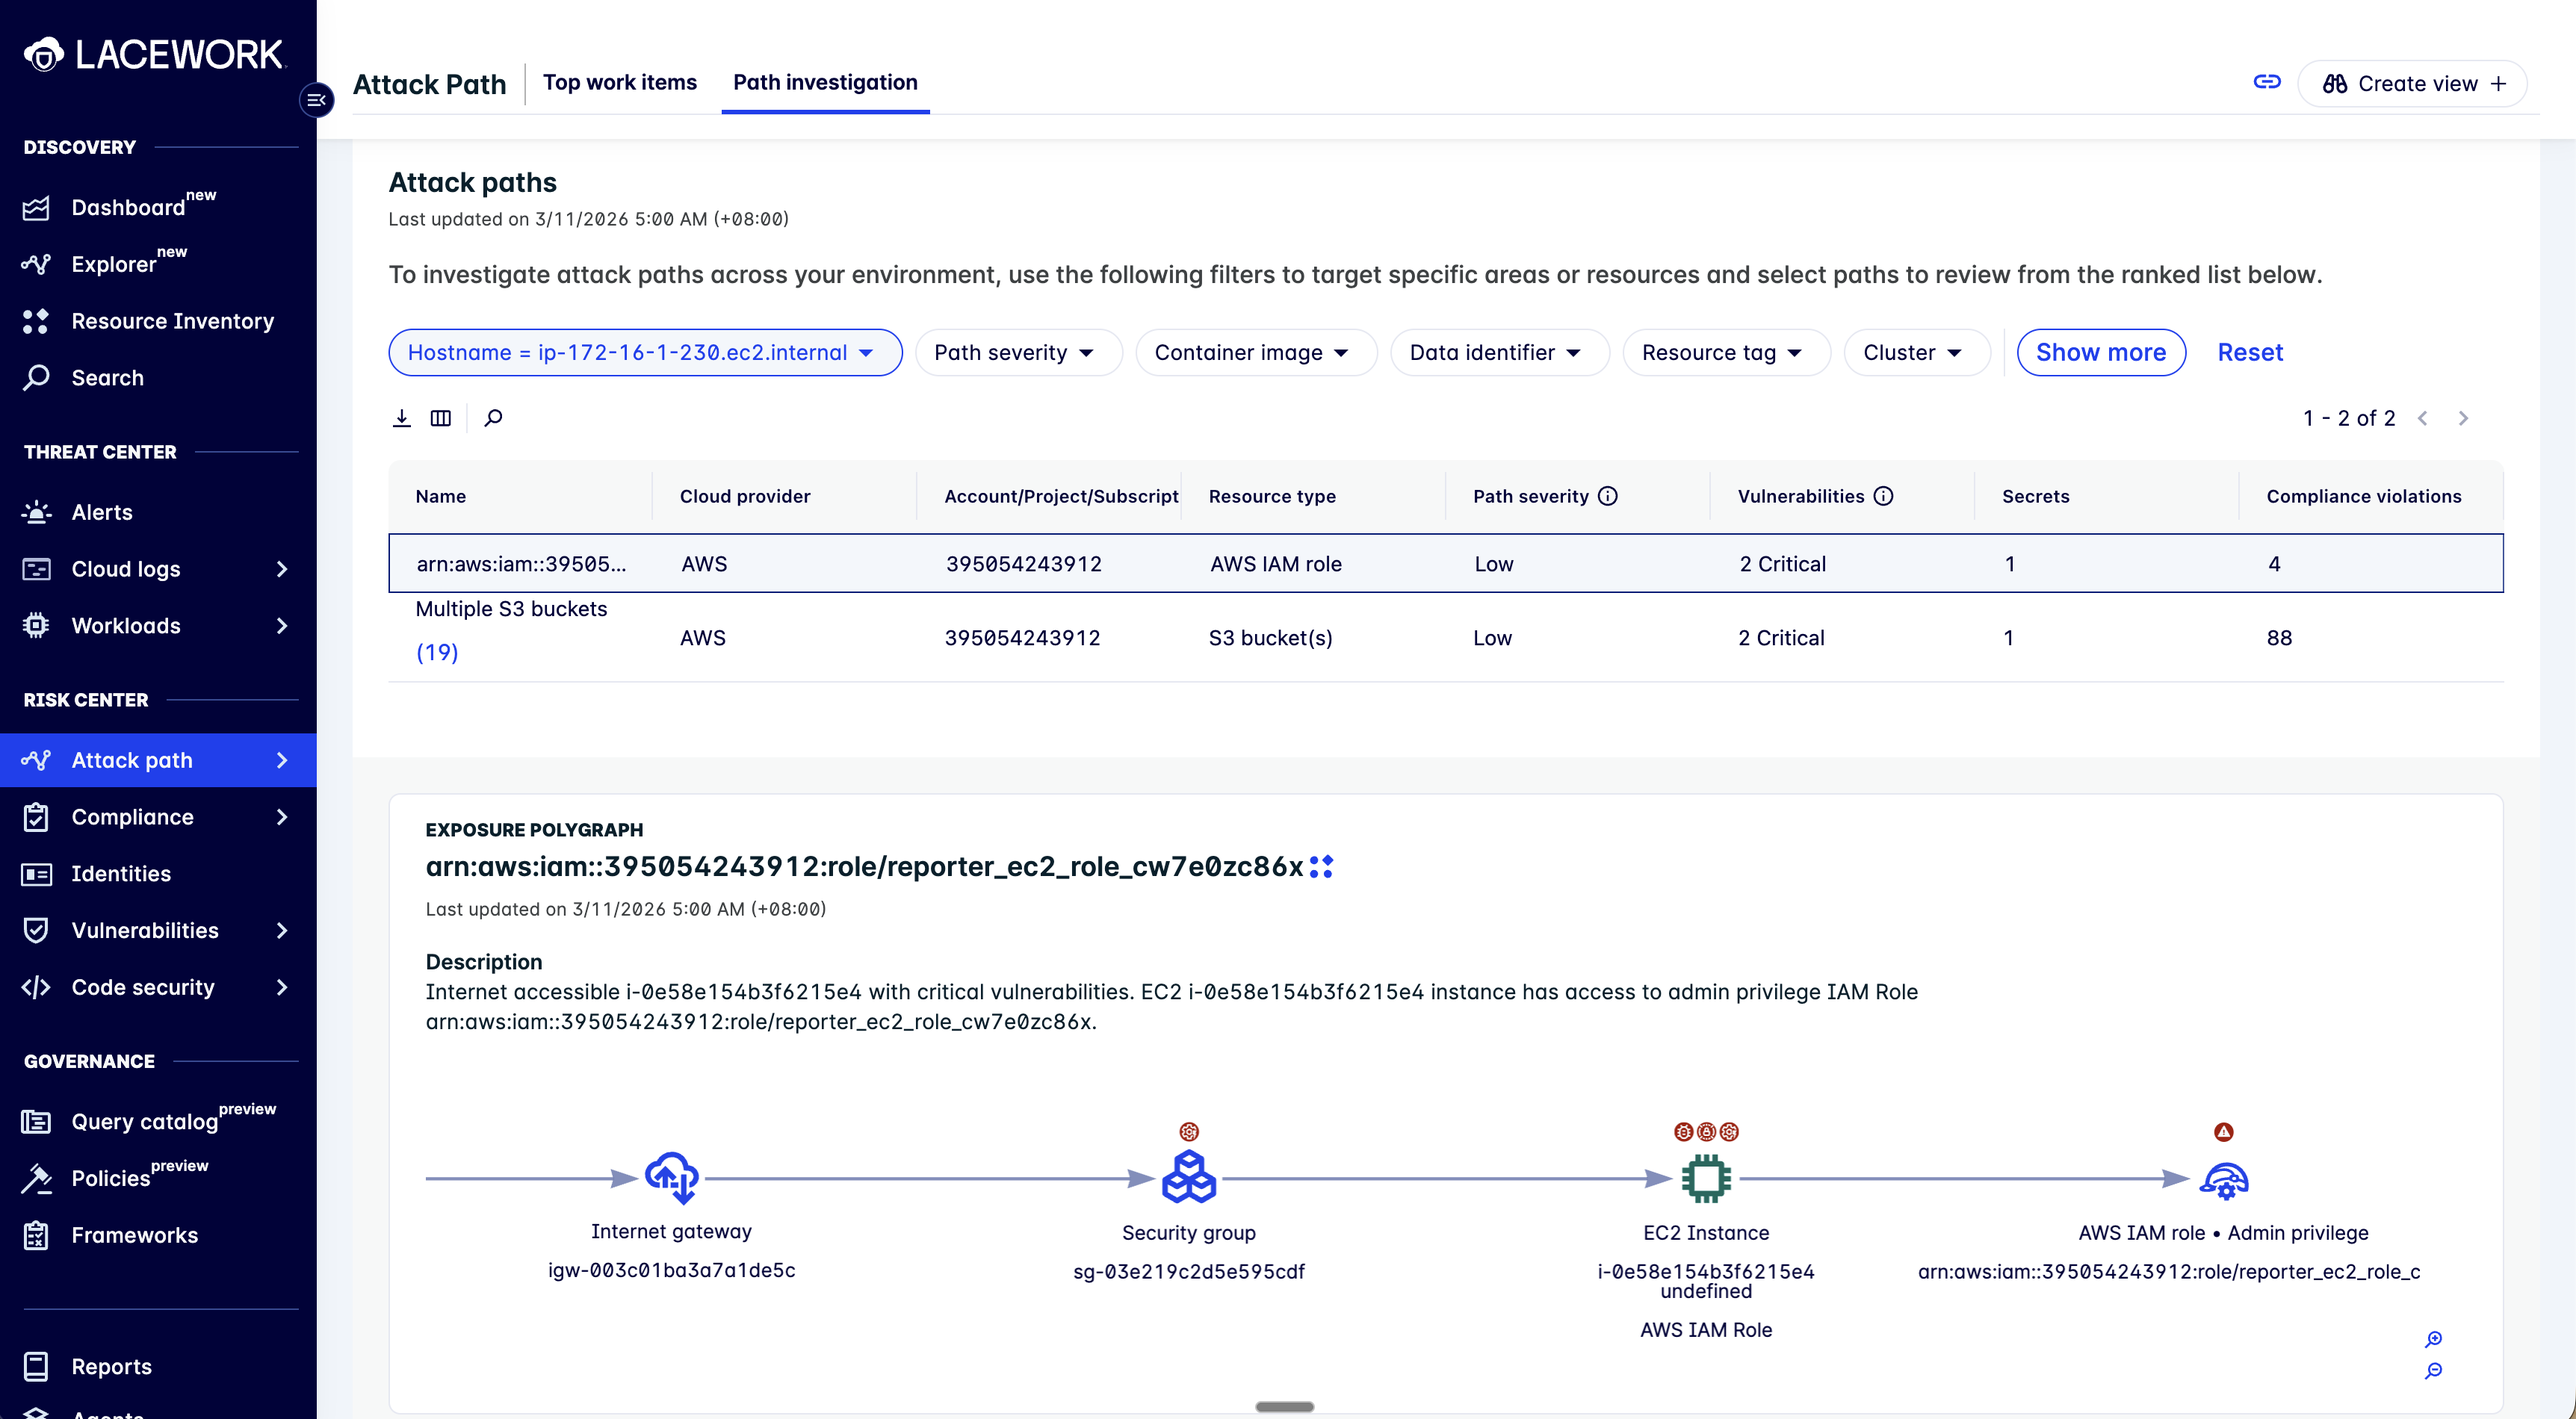
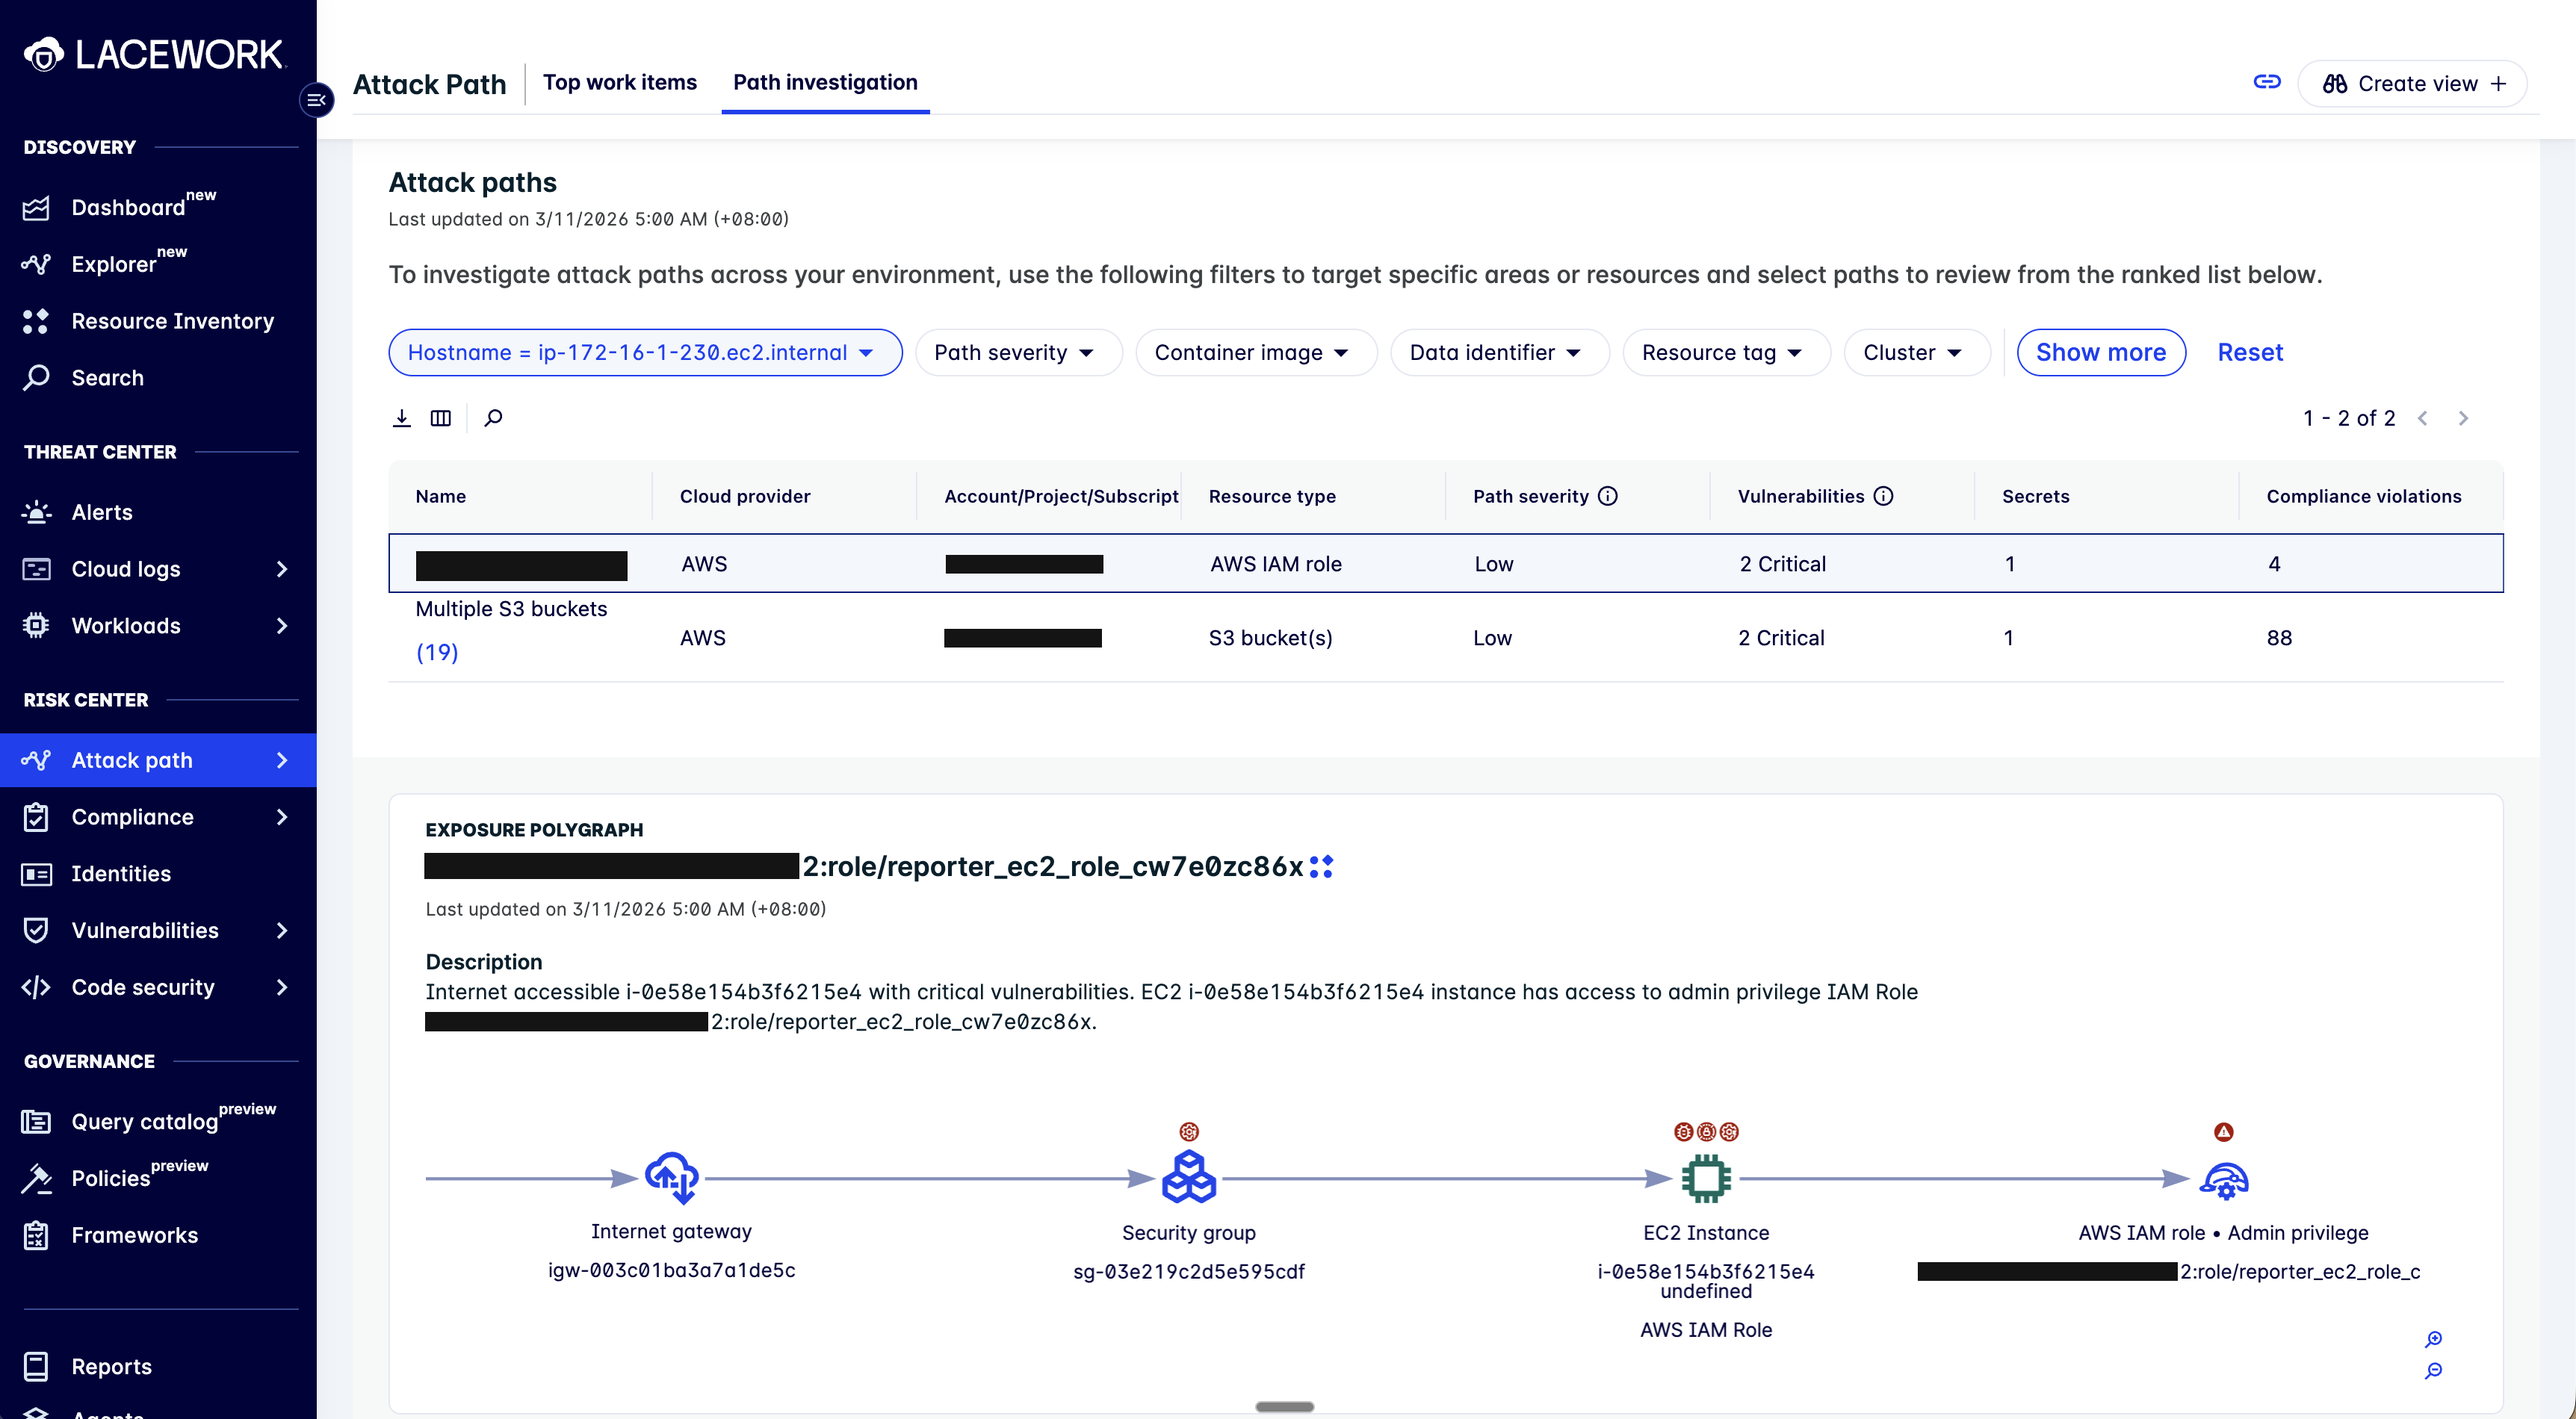
Redact account identifiers from screenshots and soften defect framing
Screenshots: OCR-located and blacked out AWS account IDs, ARNs, integration
GUIDs and external IDs across 17 images. Three accounts were exposed,
including one belonging to a third party via a shared-tenant deployment
record, and two inherited from the original repo.

Text: reframed product limitations as operational fact. Every actionable
instruction is unchanged; the judgement about the product and its docs is
not workshop content and belongs in internal notes.

diff --git a/lab-03/README.md b/lab-03/README.md
@@ -163,11 +163,10 @@ Wait for all selected integration types to complete. Allow 5 to 10 minutes.
 
 ![Live Terraform output during the deployment](images/forticnapp-deploy-progress.png)
 
-> **Rollback is per integration type, not global.** The administration guide states that a
-> failure rolls back the resources created for *all* integration types. That is not what
-> happens. In our test run Agentless succeeded and stayed deployed while Configuration
-> failed and rolled back its own 18 resources. You can end up partly onboarded, so always
-> read the per-integration status on the deployment record.
+> **Read the status per integration type.** Rollback applies to the integration type that
+> failed, not to the others. In our test run Agentless completed and stayed deployed while
+> Configuration rolled back its own 18 resources. So check each row on the deployment
+> record rather than assuming the run was all-or-nothing.
 
 Every run is recorded under **Settings** > **Integrations** > **Cloud accounts** >
 **Deployment History**, successes and failures alike. That is where you troubleshoot a
@@ -231,7 +230,7 @@ lacework-cloudtrail-7689faee   False   lacework-ct-bucket-7d009af2
 
 ## Troubleshooting
 
-These are the three failures we hit building this lab, on a real Fortinet AWS account.
+Three situations you may hit, all seen while building this lab.
 
 ### Discovery fails on an AWS Organization trail
 
@@ -240,15 +239,13 @@ TrailNotFoundException: Unknown trail: aws-controltower-BaselineCloudTrail
 for the user: <your account id>
 ```
 
-**Cause**: your account is a member of an AWS Organization that has an organization-wide
-CloudTrail, often created by Control Tower. The trail is visible to your account but owned
-by the management account, so the `GetTrail` call discovery makes returns a 400.
+**Cause**: the account is a member of an AWS Organization with an organization-wide
+CloudTrail, often created by Control Tower. A member account sees that trail as a shadow
+trail, and AWS requires the full trail ARN to look one up rather than the name.
 
-**Effect**: the whole wizard stops. It does not skip CloudTrail and carry on.
-
-**Workaround**: deselect **CloudTrail** and deploy the other integration types. To get
-CloudTrail coverage for an organization, run an **organization level** integration from the
-management account instead of an account level one from a member account.
+**What to do**: deselect **CloudTrail** and deploy the other integration types. For
+CloudTrail coverage across an organization, run an **organization level** integration from
+the management account.
 
 ![Discovery failure caused by an organization CloudTrail](images/forticnapp-discovery-controltower-error.png)
 
@@ -262,11 +259,10 @@ The provided aws account is already used in this Lacework Application.
 **Cause**: a Configuration integration already exists for this AWS account in this
 FortiCNAPP tenant.
 
-**Effect**: discovery passes, Terraform creates 18 resources, the registration API call
-fails, and Terraform destroys all 18 again. Nothing is left behind, but you only find out
-at the end.
+**What happens**: the run completes its Terraform stage, then rolls back cleanly. Nothing
+is left behind in AWS.
 
-**Workaround**: delete the existing integration first, then redeploy.
+**What to do**: delete the existing integration first, then use **Redeploy integrations**.
 
 ![Deployment record showing the duplicate integration failure](images/forticnapp-deployment-failed-duplicate.png)
 

diff --git a/lab-02/README.md b/lab-02/README.md
@@ -34,23 +34,22 @@ constraint.
 | AWS IAM Identity Center (SSO) | **Method A** | The access portal issues a role session, which can complete discovery. |
 | An IAM user with admin rights, which is the lab setup | **Method B** | Create a role and assume it. A role session can complete discovery. |
 
-> **Do not use plain `aws sts get-session-token`.** It looks like the obvious CloudShell
-> shortcut, and FortiCNAPP's own in-product guide offers it, but the credentials it returns
-> **cannot complete discovery**.
+> **Use a role session, not plain `aws sts get-session-token`.**
 >
 > Discovery calls IAM APIs. AWS blocks IAM API calls from `GetSessionToken` credentials
-> unless MFA information was included in the request. The wizard fails at Task 2 with:
+> unless MFA information was included in the request, so those credentials stop at Task 2
+> with:
 >
 > ```
 > operation error IAM: ListAttachedUserPolicies, StatusCode: 403
 > InvalidClientTokenId: The security token included in the request is invalid
 > ```
 >
-> Turning off *Simulate IAM permissions* does not fix it. That only changes which IAM call
-> fails first.
+> Turning off *Simulate IAM permissions* does not change this, because discovery calls IAM
+> either way.
 >
-> If you must use `get-session-token`, add MFA with `--serial-number` and `--token-code`.
-> Those credentials can call IAM.
+> `get-session-token` with MFA (`--serial-number` and `--token-code`) returns credentials
+> that can call IAM, and those work.
 
 #### Not sure which one you are?
 

diff --git a/lab-06/README.md b/lab-06/README.md
@@ -190,6 +190,5 @@ Terraform creates the AWS resources, and the console only deletes the first of t
 is the gap orphaned resources fall through.
 
 Route B closes the gap, because the state file spans both. Worth knowing for a customer:
-the automated configuration wizard has no teardown button, and the administration guide
-does not describe one, but the Terraform bundle on the deployment record is a complete
-workspace and `terraform destroy` does the whole job.
+the Terraform bundle on the deployment record is a complete workspace, state included, so
+`terraform destroy` does the whole job in one command.
